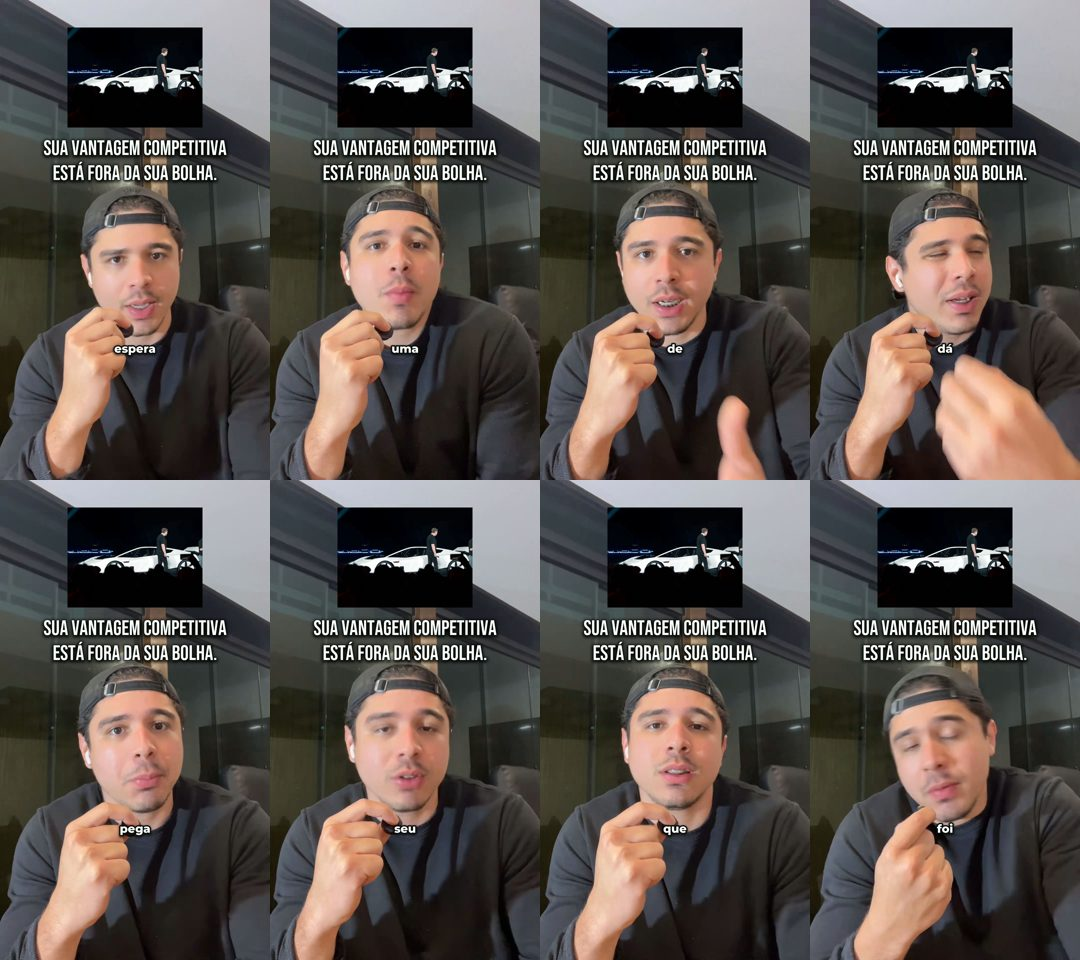
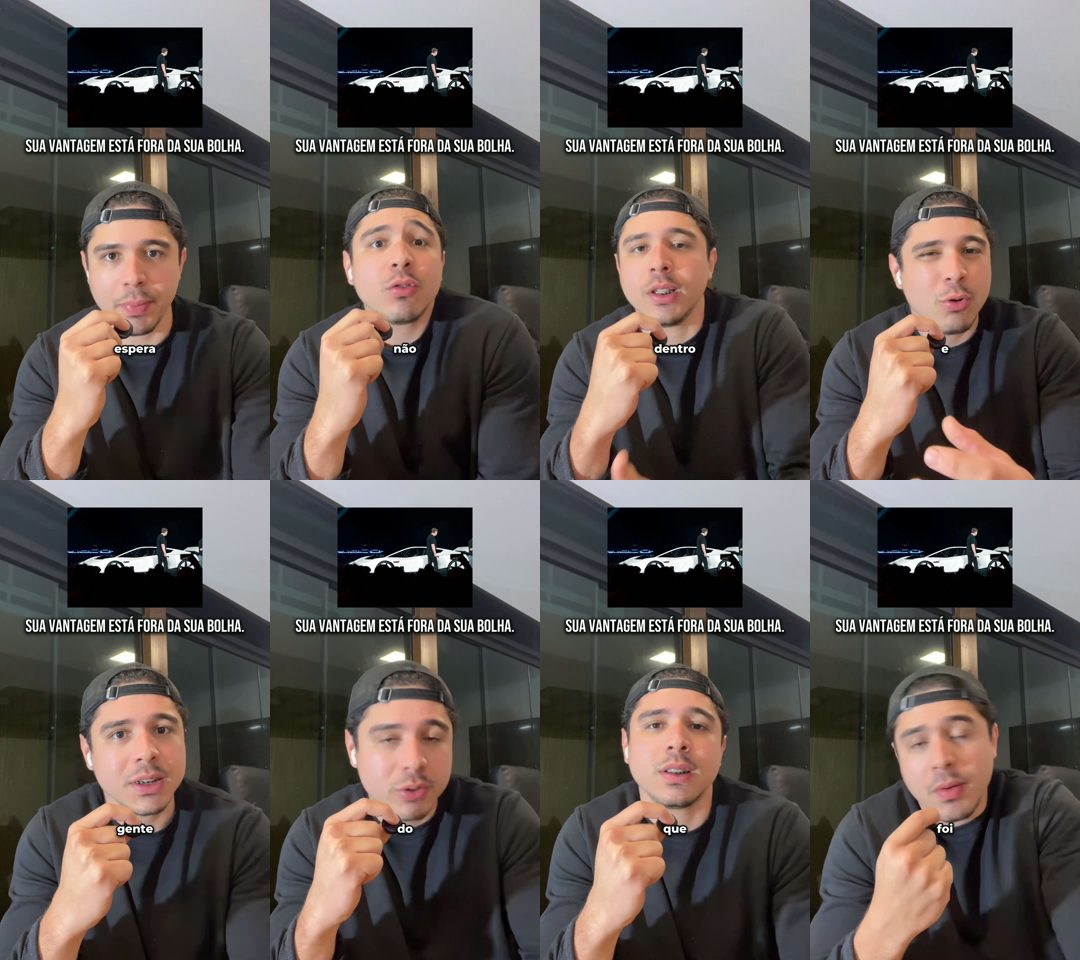
feat(conteudo): Roadster — título curto em 1 linha, início recuperado ('as ideias')

diff --git a/tools/maquina/montar.py b/tools/maquina/montar.py
@@ -59,7 +59,7 @@ def enquadrar(im, larg, alt):
 
 def titulo_png(texto, dest):
     tam = 96
-    while tam > 78:   # 17/10: abaixo disso o título longo ficava miúdo numa linha; quebra em 2 linhas grandes
+    while tam > 64:   # 17/10: abaixo de 64 o título ficava miúdo numa linha; aí quebra em 2 linhas grandes
         ft = ImageFont.truetype(BEBAS, tam)
         if ImageDraw.Draw(Image.new("RGB", (1, 1))).textlength(texto, font=ft) <= 900:
             break
